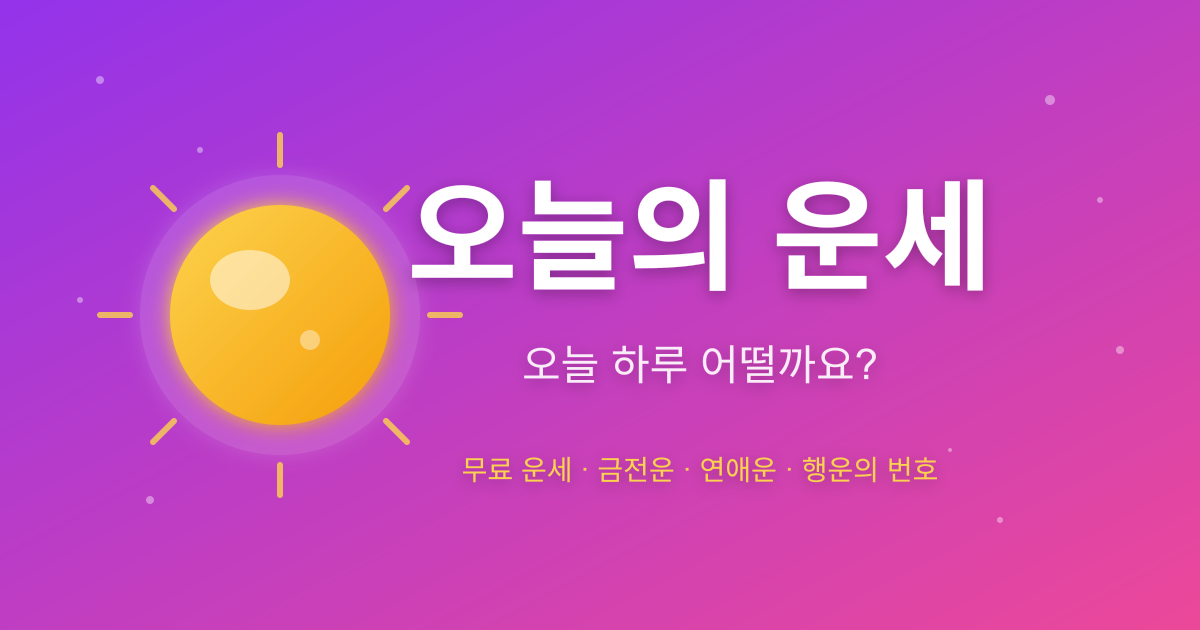
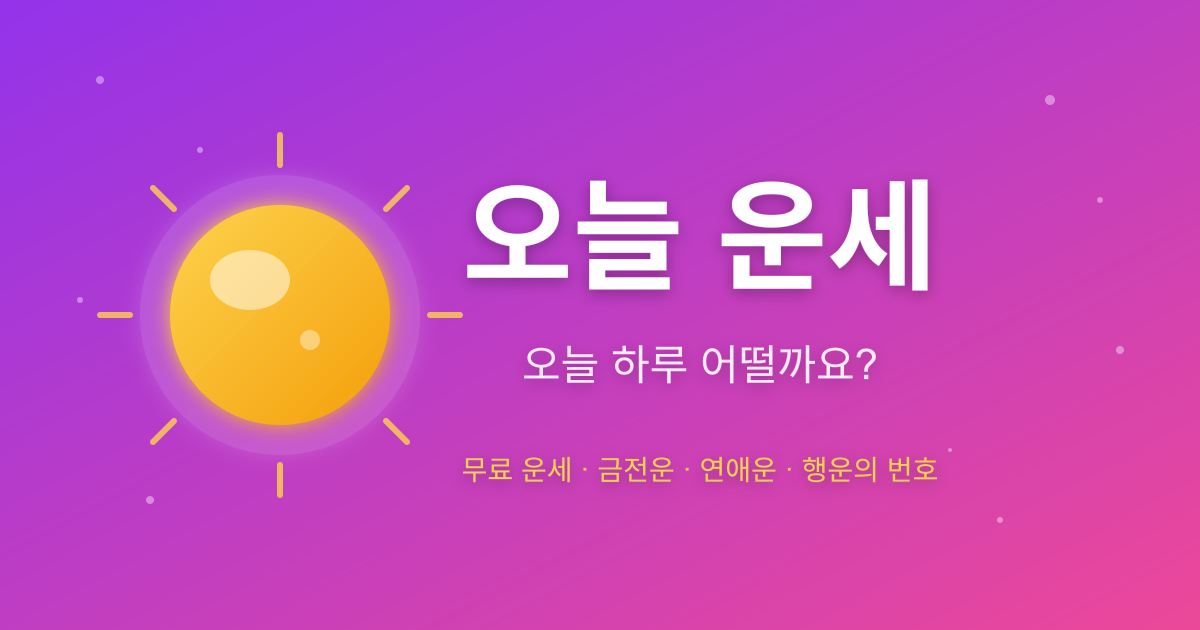
Update AdFit IDs and rename app to "오늘 운세"
- Update all 5 Kakao AdFit ad unit IDs
- Rename app from "오늘의 운세" to "오늘 운세"
- Update all references (title, meta, manifest, OG image)

Changed region(s): [[0.3392, 0.2714, 0.8325, 0.4825]]

diff --git a/index.html b/index.html
@@ -5,24 +5,24 @@
   <meta name="viewport" content="width=device-width, initial-scale=1.0, maximum-scale=5.0">
 
   <!-- Primary Meta Tags -->
-  <title>오늘의 운세 - 매일 새로운 무료 운세 | 금전운, 연애운</title>
+  <title>오늘 운세 - 매일 새로운 무료 운세 | 금전운, 연애운</title>
   <meta name="description" content="오늘 하루 어떨까요? 이름과 생년월일로 오늘의 금전운, 연애운을 무료로 확인하세요. 매일 업데이트되는 일일 운세 서비스.">
-  <meta name="keywords" content="오늘의 운세, 무료 운세, 일일 운세, 오늘 운세, 금전운, 연애운, 타로, 별자리 운세">
-  <meta name="author" content="오늘의 운세">
+  <meta name="keywords" content="오늘 운세, 무료 운세, 일일 운세, 오늘 운세, 금전운, 연애운, 타로, 별자리 운세">
+  <meta name="author" content="오늘 운세">
   <meta name="theme-color" content="#9333EA">
 
   <!-- Open Graph / Facebook -->
   <meta property="og:type" content="website">
-  <meta property="og:title" content="오늘의 운세 - 오늘 하루 어떨까요?">
+  <meta property="og:title" content="오늘 운세 - 오늘 하루 어떨까요?">
   <meta property="og:description" content="매일 업데이트되는 무료 운세! 금전운, 연애운을 지금 확인하세요.">
   <meta property="og:image" content="https://oneulunse.com/assets/og-image.png">
   <meta property="og:url" content="https://oneulunse.com">
-  <meta property="og:site_name" content="오늘의 운세">
+  <meta property="og:site_name" content="오늘 운세">
   <meta property="og:locale" content="ko_KR">
 
   <!-- Twitter -->
   <meta name="twitter:card" content="summary_large_image">
-  <meta name="twitter:title" content="오늘의 운세">
+  <meta name="twitter:title" content="오늘 운세">
   <meta name="twitter:description" content="오늘 하루 어떨까요? 무료로 확인하세요!">
   <meta name="twitter:image" content="https://oneulunse.com/assets/og-image.png">
 
@@ -58,7 +58,7 @@
   {
     "@context": "https://schema.org",
     "@type": "WebApplication",
-    "name": "오늘의 운세",
+    "name": "오늘 운세",
     "description": "매일 업데이트되는 무료 운세 서비스",
     "url": "https://oneulunse.com",
     "applicationCategory": "LifestyleApplication",
@@ -78,7 +78,7 @@
       <!-- 광고 배너 #1: 메인 상단 -->
       <div class="ad-banner ad-banner-top">
         <ins class="kakao_ad_area" style="display:none;"
-             data-ad-unit="DAN-bRUaFiwdT4Hz2k57"
+             data-ad-unit="DAN-4FmjggfyayyA1UAW"
              data-ad-width="320"
              data-ad-height="100"></ins>
       </div>
@@ -86,7 +86,7 @@
       <div class="main-content">
         <div class="logo-section">
           <div class="logo-icon">&#9728;&#65039;</div>
-          <h1 class="title">오늘의 운세</h1>
+          <h1 class="title">오늘 운세</h1>
           <p class="subtitle">오늘 하루 어떨까요?</p>
         </div>
 
@@ -131,7 +131,7 @@
       <!-- 광고 배너 #2: 메인 하단 -->
       <div class="ad-banner ad-banner-bottom">
         <ins class="kakao_ad_area" style="display:none;"
-             data-ad-unit="DAN-Zv9w09twLGWQYjly"
+             data-ad-unit="DAN-fde7kfqAMx0vD2dZ"
              data-ad-width="320"
              data-ad-height="100"></ins>
       </div>
@@ -141,7 +141,7 @@
     <section id="screen-loading" class="screen">
       <div class="loading-content">
         <div class="loading-icon">&#128302;</div>
-        <p class="loading-text" id="loading-text">오늘의 운세를 불러오는 중...</p>
+        <p class="loading-text" id="loading-text">오늘 운세를 불러오는 중...</p>
         <div class="progress-bar">
           <div class="progress-fill" id="progress-fill"></div>
         </div>
@@ -180,7 +180,7 @@
         <!-- 광고 배너 #3: 결과 상단 -->
         <div class="ad-banner ad-banner-result">
           <ins class="kakao_ad_area" style="display:none;"
-               data-ad-unit="DAN-1nPB7ZElqU0mD4eH"
+               data-ad-unit="DAN-cL4myHgXwq9wxK2t"
                data-ad-width="320"
                data-ad-height="100"></ins>
         </div>
@@ -210,7 +210,7 @@
         <!-- 광고 배너 #4: 결과 중간 -->
         <div class="ad-banner ad-banner-result">
           <ins class="kakao_ad_area" style="display:none;"
-               data-ad-unit="DAN-O3NbF3LXj7Gygj1R"
+               data-ad-unit="DAN-pPHi5SISItl4ng1C"
                data-ad-width="320"
                data-ad-height="100"></ins>
         </div>
@@ -283,7 +283,7 @@
         <!-- 광고 배너 #5: 결과 하단 -->
         <div class="ad-banner ad-banner-bottom">
           <ins class="kakao_ad_area" style="display:none;"
-               data-ad-unit="DAN-k9Aafe0sw9MZaQ66"
+               data-ad-unit="DAN-dYh9VIsfHjwCBykw"
                data-ad-width="320"
                data-ad-height="100"></ins>
         </div>

diff --git a/js/app.js b/js/app.js
@@ -1,5 +1,5 @@
 /**
- * 오늘의 운세 - 메인 앱 로직
+ * 오늘 운세 - 메인 앱 로직
  */
 
 const App = {
@@ -264,7 +264,7 @@ const App = {
     this.showScreen('loading');
 
     const loadingTexts = [
-      '오늘의 운세를 불러오는 중...',
+      '오늘 운세를 불러오는 중...',
       '별자리를 분석하는 중...',
       '운명의 흐름을 읽는 중...',
       '행운의 기운을 계산하는 중...',
@@ -468,7 +468,7 @@ const App = {
       // Web Share API 시도
       if (navigator.share) {
         await navigator.share({
-          title: '오늘의 운세',
+          title: '오늘 운세',
           text: shareText,
           url: window.location.origin
         });

diff --git a/js/fortune.js b/js/fortune.js
@@ -1,5 +1,5 @@
 /**
- * 오늘의 운세 - 운세 생성 로직
+ * 오늘 운세 - 운세 생성 로직
  *
  * 핵심 원칙:
  * - 같은 사람 + 같은 날 = 항상 같은 결과
@@ -178,7 +178,7 @@ const Fortune = {
     const scoreText = fortune.overall.score >= 80 ? '대박' :
                       fortune.overall.score >= 60 ? '좋은' : '평범한';
 
-    return `🔮 오늘의 운세 결과!\n\n` +
+    return `🔮 오늘 운세 결과!\n\n` +
            `${fortune.name}님의 오늘 운세는 ${scoreText} 운세! ${fortune.overall.emoji}\n` +
            `총운 ${fortune.overall.score}점\n\n` +
            `💰 금전운: ${fortune.money.title}\n` +
